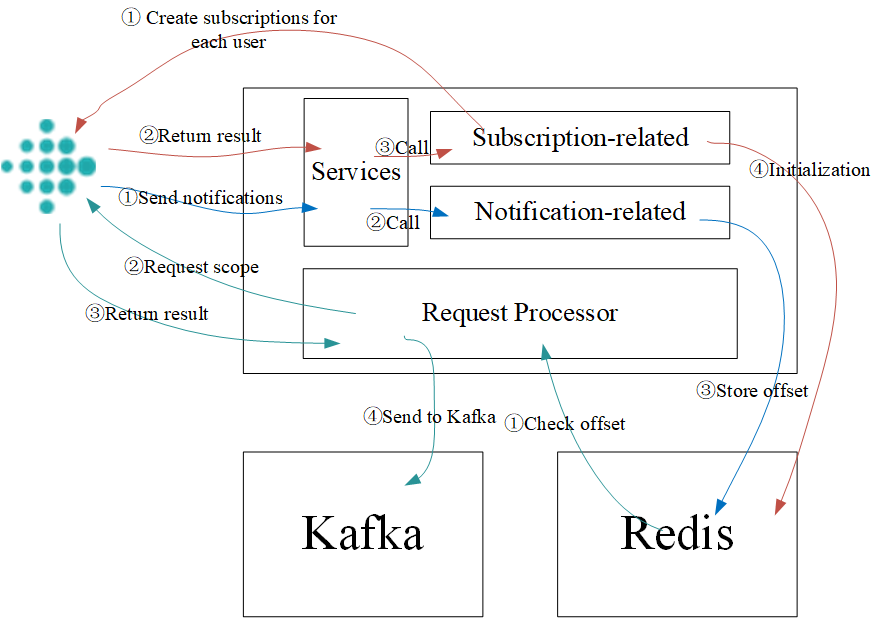
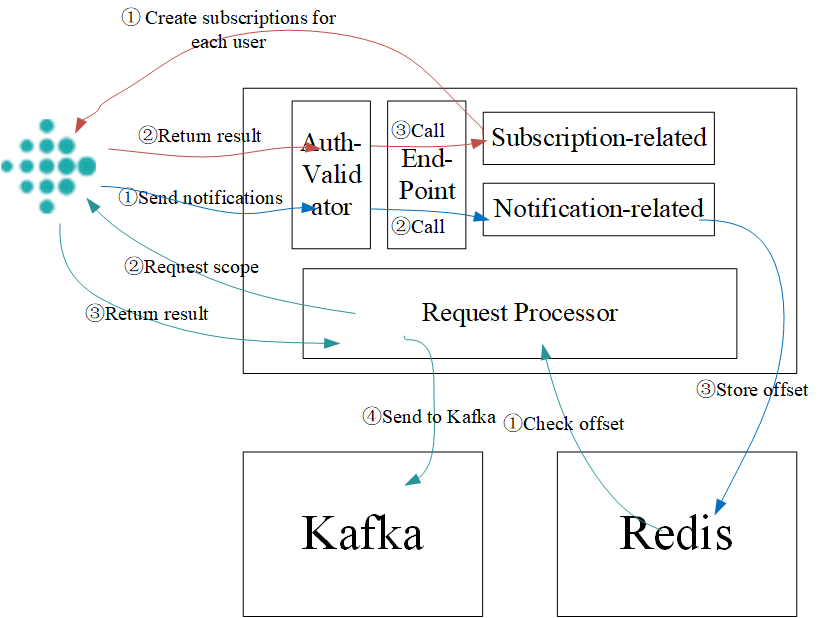
update report

diff --git a/docs/gsoc-2022/intro.md b/docs/gsoc-2022/intro.md
@@ -3,19 +3,27 @@ sidebar_position: 1
 ---
 
 # Fitbit Web API Subscription and Nutrition API Extension
+![GSoC LOGO.png](../../static/img/gsoc-2022/gsoc-logo.png)
 
-**Student**: Junjie Zhou
+## GSoC'22  - Final Project Report
 
-**Mentor**: Yatharth Ranjan
+Hi, I'm Junjie Zhou. I am a developer of RADAR-Base GSoC2022. The following report summarizes the work done during Google Summer of Code 2022 along with future work. 
 
-Links to accomplished work:
-- Update current Web API(heart-rate-related and sleep related) requests: [RADAR-REST-Connector/pull/92(merged)](https://github.com/RADAR-base/RADAR-REST-Connector/pull/92)
-- Add another Web API(nutrition) request for Kafka:  [RADAR-Schemas/pull/315(merged)](https://github.com/RADAR-base/RADAR-Schemas/pull/315)
-- Integrate a Fitbit subscription API to ```RADAR-REST-Connector```(moved to ```RADAR-PushEndpoint```) so that it can retrieve data when necessary: [RADAR-PushEndpoint/pull/52(unmerged)](https://github.com/RADAR-base/RADAR-PushEndpoint/pull/52)
 
-## Introduction
+## Basic Info
+- Mentor: Yatharth Ranjan
+- Student: Junjie Zhou
+- Organization: [RADAR-Base](https://radar-base.org/)
+- Project Title: Fitbit Web API Subscription and Nutrition API Extension
 
-Hi, I'm Junjie Zhou. I am a developer of RADAR-Base GSoC2022. The goal of this project is to enrich the ability of RADAR-Base when interacting with third-party, specificlly Fitbit, data provider. My work could be split into three parts according to three works that has been done: update hr and sleep api, add nutrition api, integrate Fitbit subscription API.
+## Project Goals and PR Links
+![RADAR-Base LOGO.png](../../static/img/gsoc-2022/radar-base-logo2.png)
+
+The goal of this project is to enrich the ability of RADAR-Base when interacting with third-party, specificlly Fitbit, data provider. And it could be split into three parts according to three works that has been done: update hr and sleep api, add nutrition api, integrate Fitbit subscription API.
+
+- ✔(merged) [#RADAR-REST-Connector/pull/92](https://github.com/RADAR-base/RADAR-REST-Connector/pull/92): Update current Web API(heart-rate-related and sleep related) requests.
+- ✔(merged) [#RADAR-Schemas/pull/315](https://github.com/RADAR-base/RADAR-Schemas/pull/315): Add another Web API(nutrition) request for Kafka.  
+- ⊙(unmerged) [#RADAR-PushEndpoint/pull/52(unmerged)](https://github.com/RADAR-base/RADAR-PushEndpoint/pull/52): Integrate a Fitbit subscription API to ```RADAR-REST-Connector```(moved to ```RADAR-PushEndpoint```) so that it can retrieve data when necessary.
 
 ## Actions
 ### Update hr and sleep api
@@ -25,21 +33,32 @@ For updating current API: schema and logic code shoule be modified. And I have u
 For adding nutrition’s API: schema, converter and route should be added. And I have added such schema in repo ```RADAR-Schemas``` and added such converter and route in repo ```RADAR-PushEndpoint```.
 
 ### Integrate Fitbit subscription api
-For Fitbit subscription integrating. The newly data flow after integrating subscription is exemplified as the following figure.
+For Fitbit subscription integrating. We experience a migration from project ```RADAR-REST-CONNECTOR``` to project ```RADAR-PushEndpoint``` because the latter is more suitable to handle with such task topologically. 
+
+Originally, the newly data flow after integrating subscription is exemplified as the following figure. In such a way, we need open another interface to receive notifications and handle them.
 ![Subscription in RADAR-Base.png](../../static/img/gsoc-2022/radar-connector.png)
 
-More specific, such notification dealing has been moved to ```RADAR-PushEndpoint```. The coding part is done with the help of mentor Yatharth, and the inner logic of it is exemplified as the following figure.
+However, similar updating notifications also applied to interaction with data provider Garmin, which is implemented in ```RADAR-PushEndpoint```. So we migrate the interation with Fitbit to that project. The inner logic of it is exemplified as the following figure.
 ![Inner Endpoint Fitbit Logic.png](../../static/img/gsoc-2022/inner-pushendpoint-fitbit.png)
 
+From above figure, we can split such integration into three procedures.
+- Creating Subscriptions: Subscriptions are requested to Fitbit for each user through subscription-related service the moment endpoint is startup. Fitbit then return whether subscriptions are successfully created for each user. For successful requests, we store the user and status in memory. For failed requests, we try that again after configured duration.
+- Listening Notifications: An endpoint is started to listening requests, which are notifications of data updation for users, from Fitbit. When a notification is coming, notification-related service processes it and stores the latestOffset into redis according to user and data scope.
+- Retrieve Data: We implement a request processor to periodically read offset updation from redis according to user and data scope. If latestOffset is different from lastSuccessOffset, the processor will retrieve such data from Fitbit. Then the retruned result is converted to what we need(defined in ```RADAR-Schemas```) and sent to Kafka so that could be used in a real-time way by downstream apps.
+
 ## Testing Result
-To be updated...
+The unit test is passing. But we still need to test in the production enviroment whether the subscription could be successfully created and notifications could be received successfully.
 
 ## What's left
 - Testing in the Internet
 - Getting the PR merged
-- Future contributions(codes/docss/...)
+- Future contributions(codes/docs/...):
+    - Create libraries for submodules such as converters, route and request generation so the code can be reused across both the ```RADAR-REST-CONNECTOR``` and the ```RADAR-PushEndpoint```
+    - Contribute docs on projects from RADAR-Base and relationships between them.
+    - ...
 
 ## Discussions
+During the program, regular meetings hosted through Google Meet, Teams or Slack huddle are the primary mode of communication between me and the mentor. Also, RADAR-Base slack workspace is mostly used to resolve any doubts, suggestions and comments.
 
 - First Meeting
     - Date: 27 May 2022
@@ -125,5 +144,56 @@ To be updated...
         - Add timestamp for next request. The request limit is for each user.
         - Remove sensitive configurations from gateway.yml
         Implement Redis to store a map of each notification and create a service periodically to get notifications from Redis.
+
+- Fitbit Gsoc (27th Sept)
+    - Copied some code from fitbit connector
+    - Setting up service (resource) for fitbit endpoints
+    - Redis no updates
+    - Questions:
+        - FItbit subscription api only supports activity, body, nutrition and sleep  — https://dev.fitbit.com/build/reference/web-api/developer-guide/using-subscriptions/#Collection-Types 
+        - Kind of defeats the purpose of us migrating — we needed mostly for continuous data 
+        - YR: discuss internally and contact fitbit to double check (might be there is a way to access that)
+    - Subscriber security — https://dev.fitbit.com/build/reference/web-api/developer-guide/best-practices/#Subscriber-Security 
+    - Redis FIFO queueing for incoming notifications
+    - RequestGenerator — query these and only delete from FIFO queue when the processing is complete (or put back if processing fails) 
+
+
+- Fitbit Gsoc (14th Oct)
+    - Work done
+        - was busy
+        - Not much updates
+    - Questions
+        - Missing notification handling
+    - Next Steps
+        - Redis storage of notificaitons
+        - Notification processing code — read offsets from redis, read new notification from redis, pull all the data between the two dates
+        - Storing offsets after success requests
+
+
+- Fitbit Gsoc (17th oct)
+    - Work done
+        - Redis only store offset from notifications
+        - Store lastSuccessOffset and latestOffset in redis
+        - Processing code for service to process the data
+        - Had a quick peer coding session to iron out the kinks.
+    - Questions
+        - On redis persistence
+        - Request generation
+    - Next Steps
+        - Implementing the request generator
+        - Separate request generation and adding to redis
+        - Copy the request generation code from the rest-connector and modify for push endpoint (use redis for offsets,etc)
+
+
+- Fitbit Gsoc (24th oct)
+    - Work done
+        - Completely the redis part
+    - Questions
+        - A problem with redis when working
+        - Encapsulate offsets as there are 2 offsets
+    - Next Steps
+        - Redis storage of notificaitons
+        - Notification processing code — read offsets from redis, read new notification from redis, pull all the data between the two dates
+        - Storing offsets after success requests 
 
 - Meetings without formal notes.
